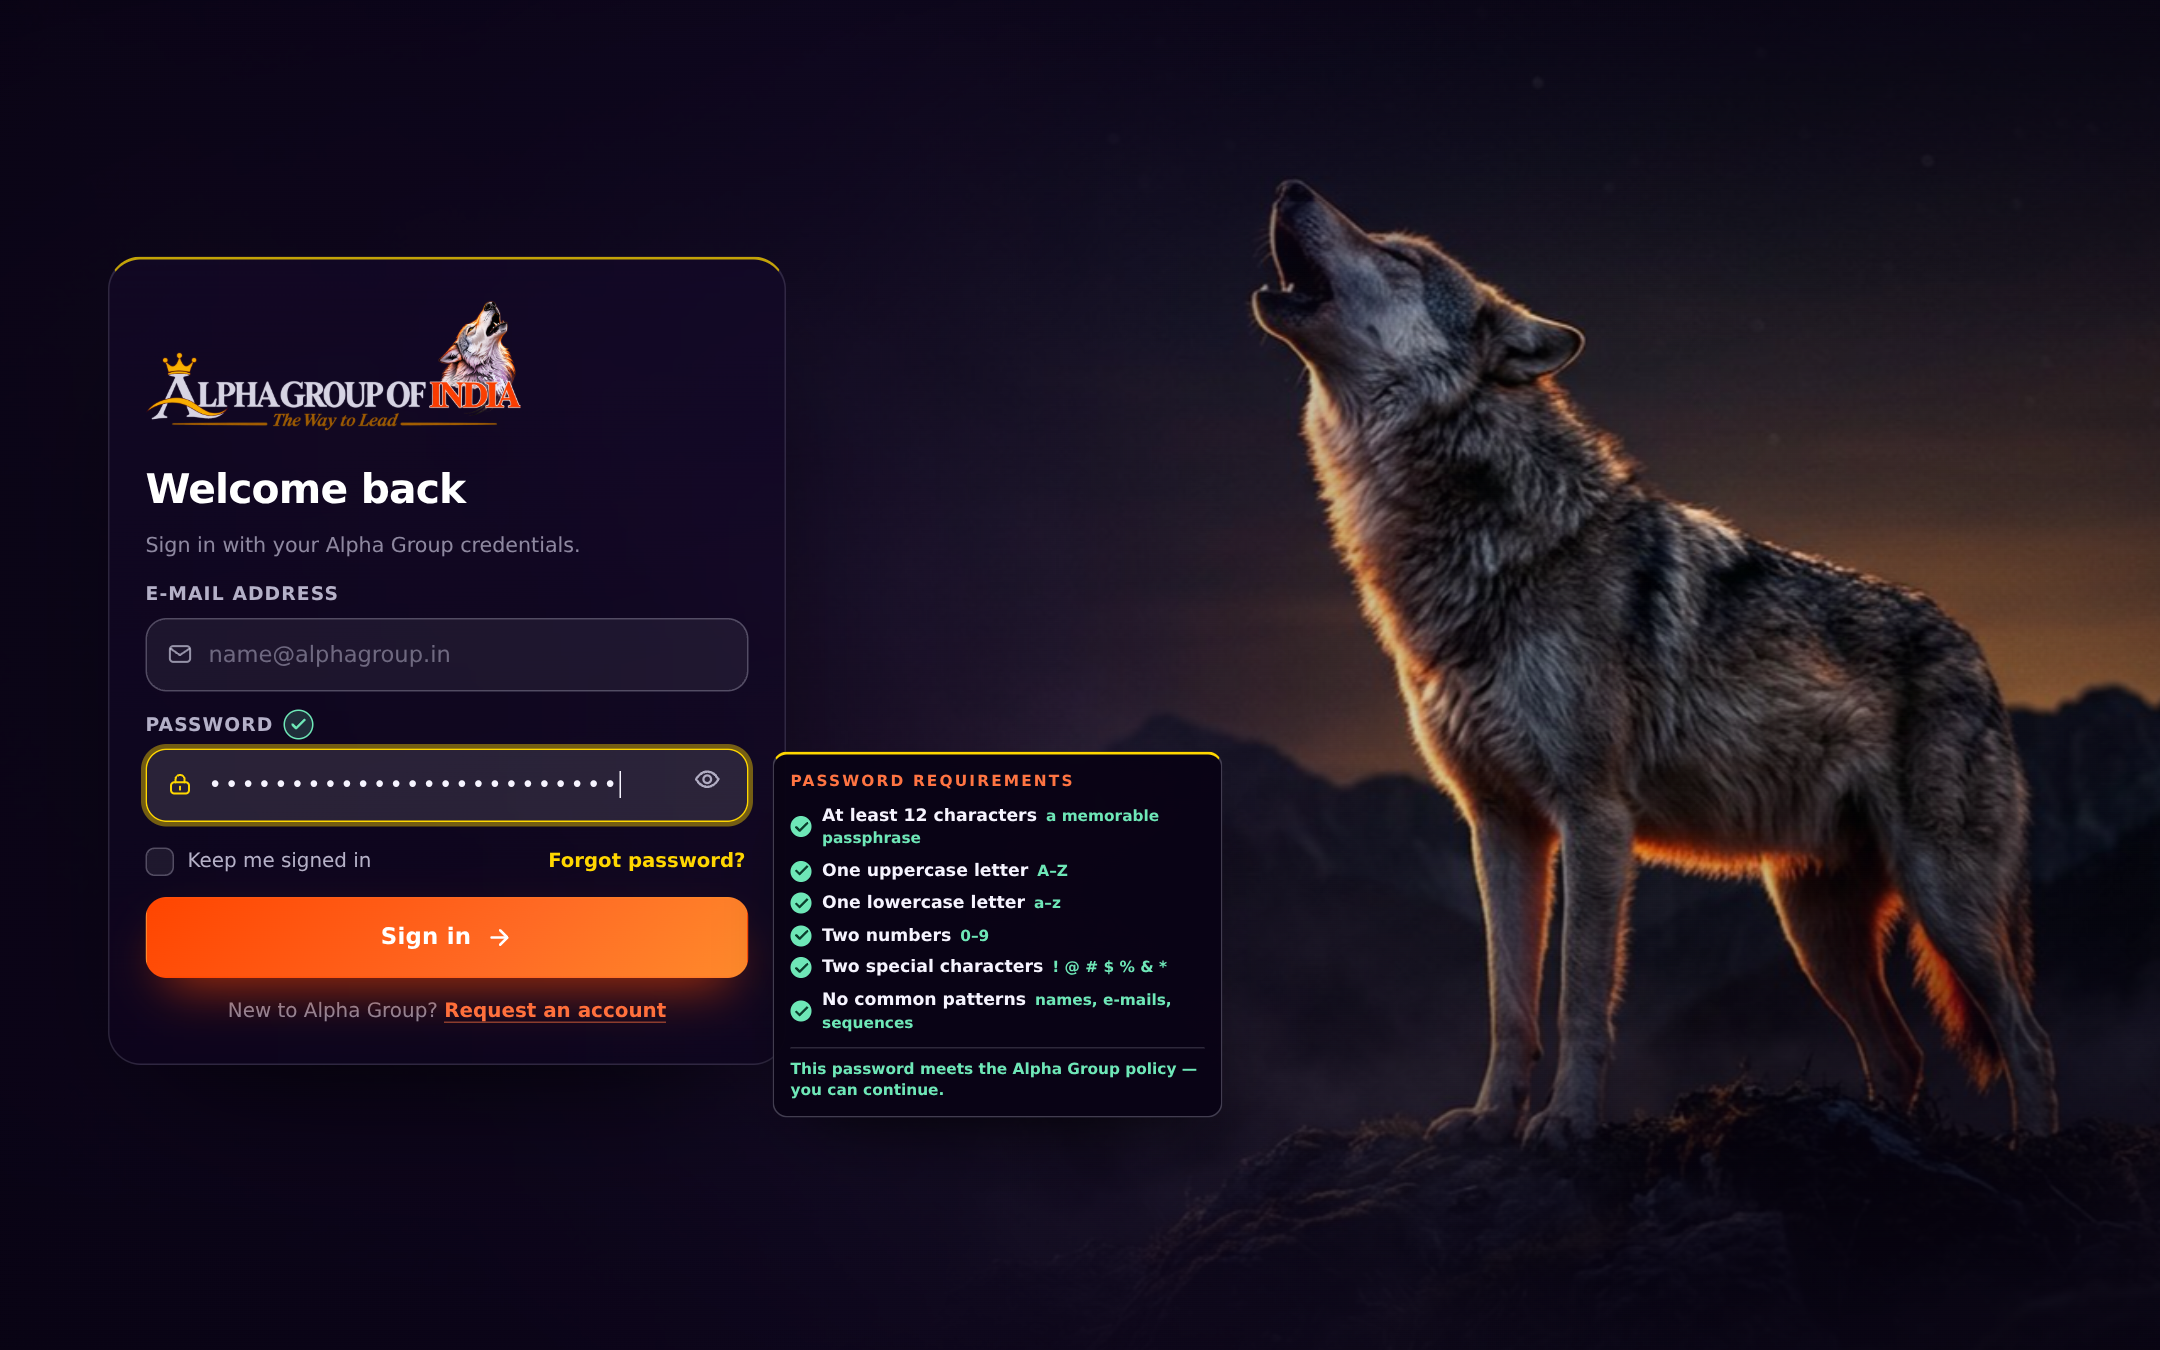
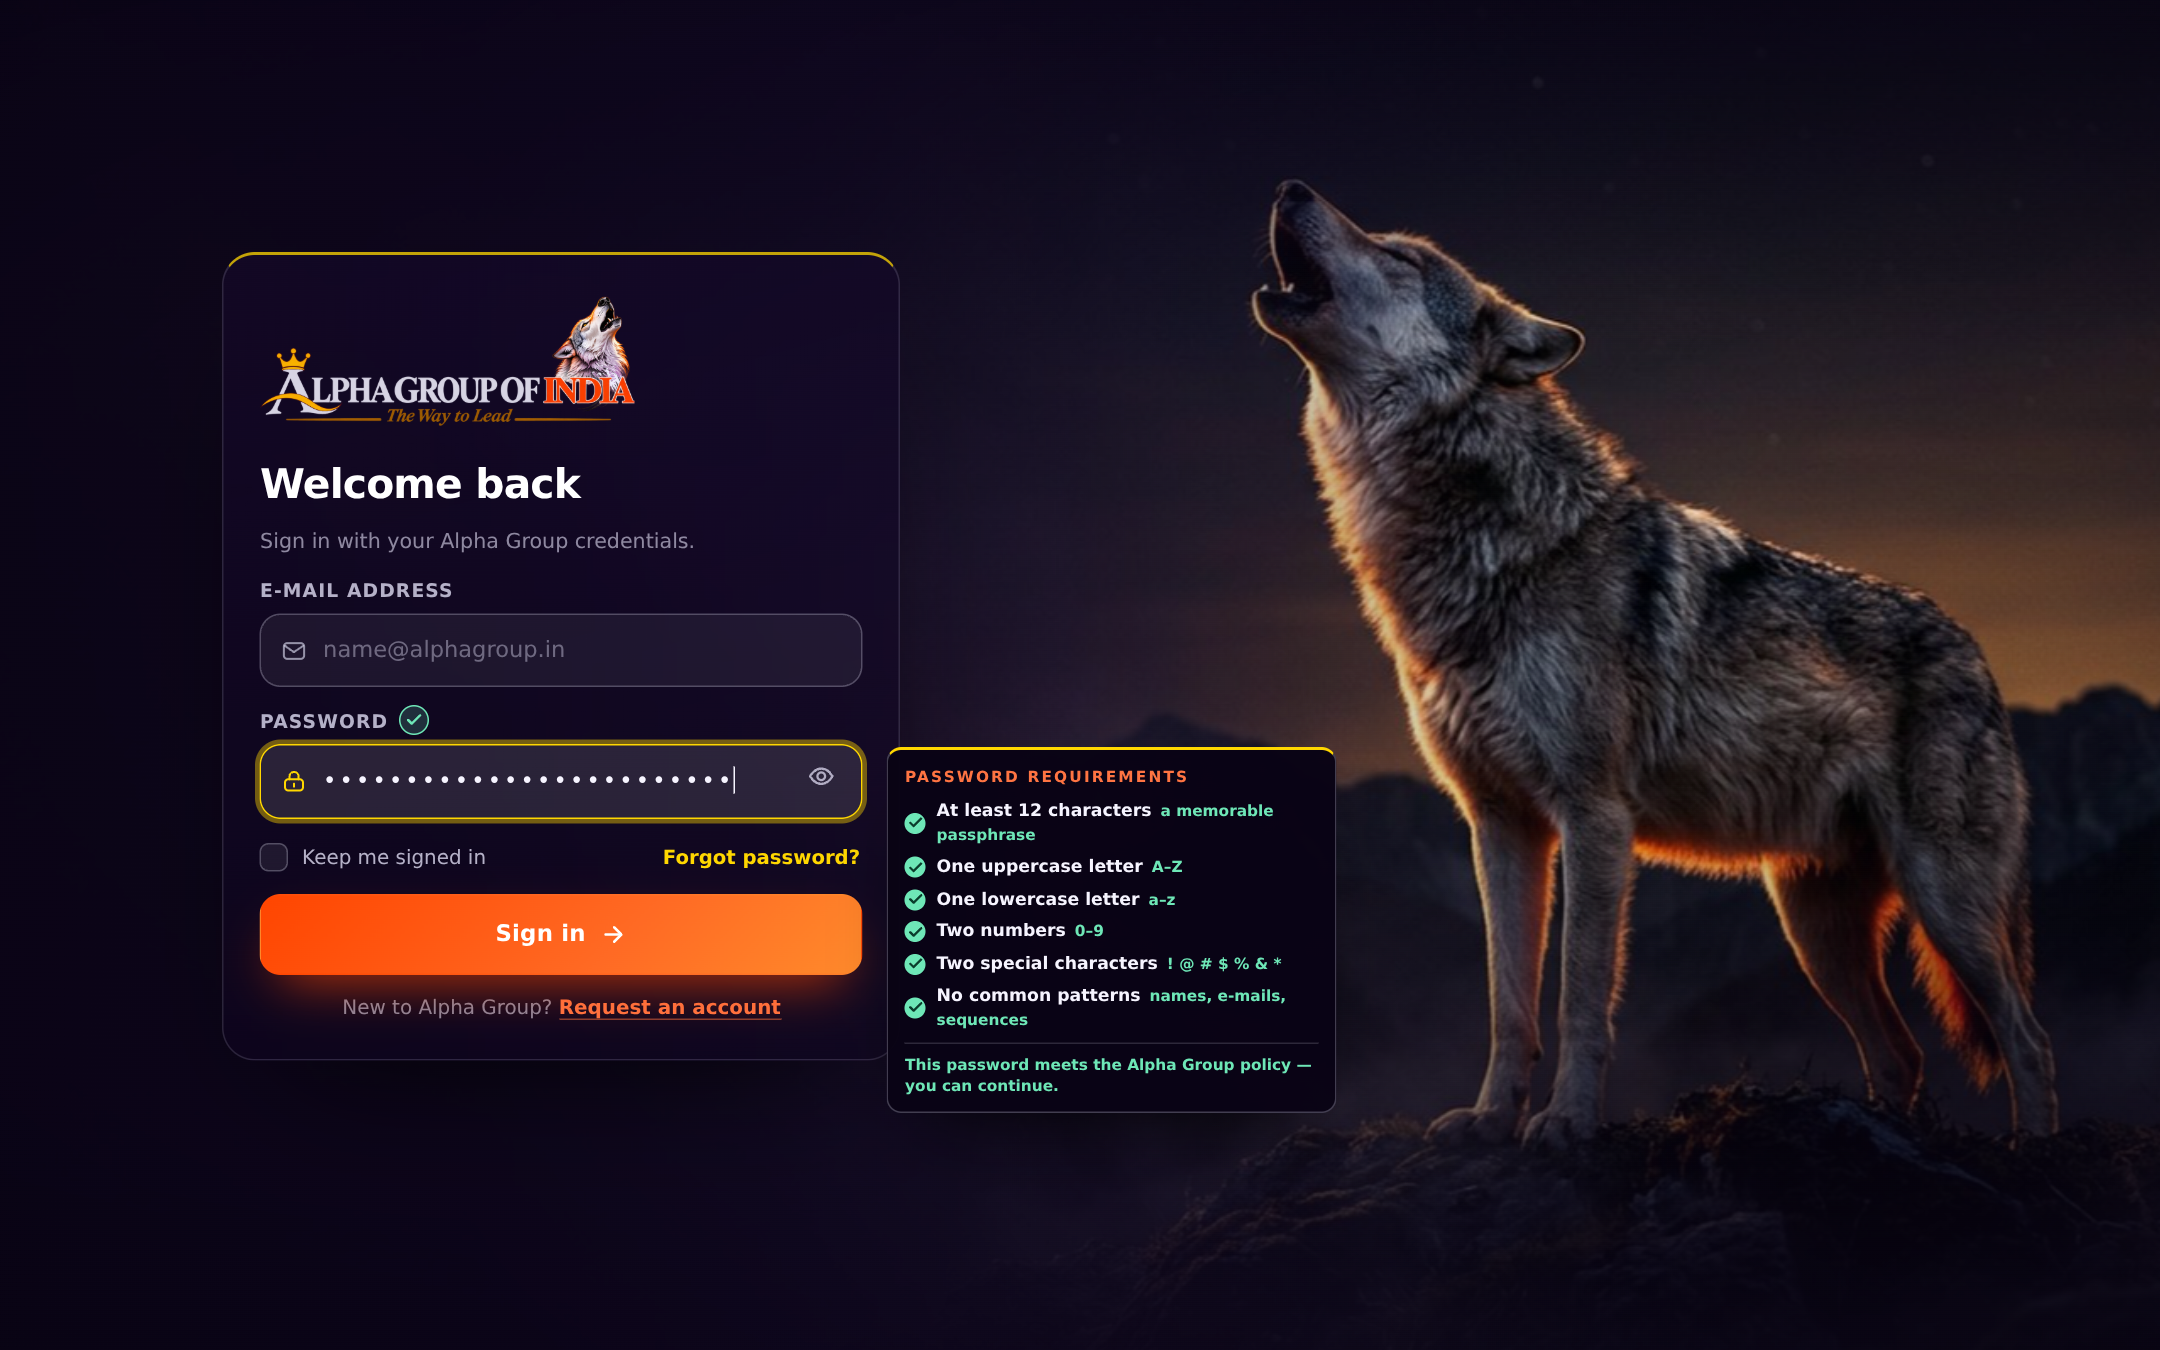
style(css): centre the sign-in panel in the left half
The stage gave the panel a fixed 452px first column pinned to the left edge, so
the card hugged the left margin with a wide empty band before the photograph.
The stage is now two equal fluid columns with centred items, and the auth pages
apply their extra breathing room to both vertical edges instead of only the top.

At 1440x900 the card sits at x 148-600 (centre 374) with 169px above and 192px
below; it stays full-width on narrow screens. Refreshes the preview images.

Changed region(s): [[0.062, 0.1867, 0.5894, 0.84], [0.5894, 0.5289, 0.6204, 0.5911]]

diff --git a/src/main/resources/static/css/app.css b/src/main/resources/static/css/app.css
@@ -190,10 +190,12 @@ ul { padding: 0; list-style: none; }
   position: relative;
   z-index: 2;
   display: grid;
-  grid-template-columns: minmax(0, 452px) minmax(0, 1fr);
+  /* Equal halves: the sign-in panel sits centred in the left one, the wolf
+     photograph keeps the right one to itself. */
+  grid-template-columns: minmax(0, 1fr) minmax(0, 1fr);
   align-items: center;
   align-content: center;
-  justify-items: start;
+  justify-items: center;
   column-gap: clamp(24px, 6vw, 120px);
   padding: clamp(18px, 2.4vw, 34px) clamp(20px, 5vw, 72px) clamp(20px, 3vw, 40px);
 }
@@ -208,8 +210,10 @@ ul { padding: 0; list-style: none; }
   align-content: center;
 }
 
-/* No masthead on the auth pages any more — the logo lives inside the panel. */
-.page--auth .stage { padding-top: clamp(24px, 5vh, 56px); }
+/* No masthead on the auth pages any more — the logo lives inside the panel.
+   The extra breathing room is applied to both edges so the centred panel
+   does not sit low. */
+.page--auth .stage { padding-block: clamp(24px, 4vh, 48px); }
 
 /* --------------------------------------------------------------------------
    Small shared pieces
